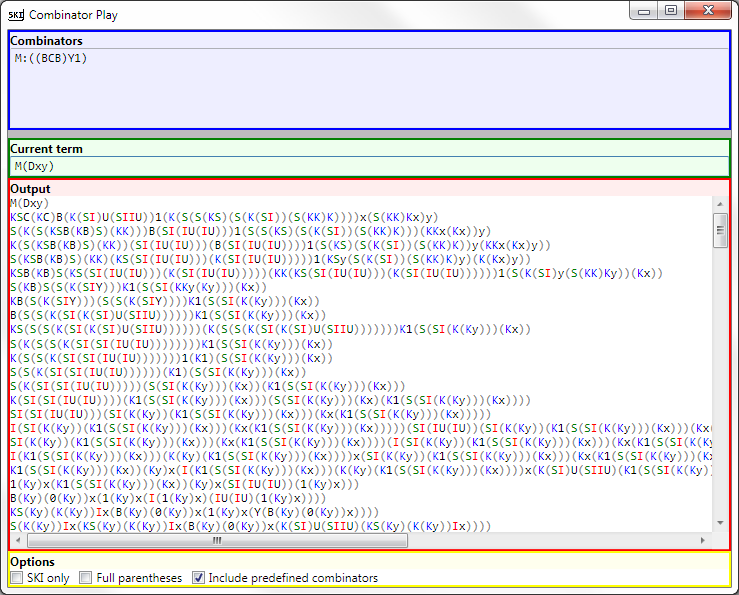
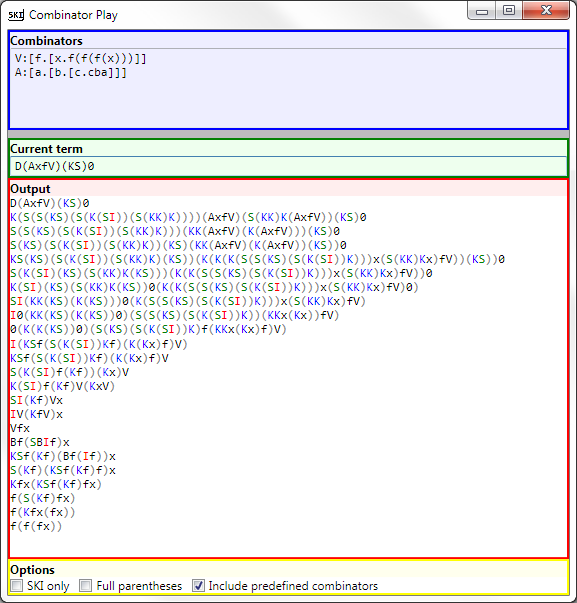
Added support for basic abstractions.
- Abstractions do a simple conversion of point form to SKI.
- This is not full lambda calculus support.  It doesn't do alpha conversions.
- Example: [x.[y.yx]] -> S(K(SI))K
- Cleaner handling of parentheses and square brackets when parsing.

Changed region(s): [[0.0, 0.0, 1.0, 0.9983]]

diff --git a/WPF_FrontEnd/MainWindow.xaml b/WPF_FrontEnd/MainWindow.xaml
@@ -2,13 +2,13 @@
         xmlns="http://schemas.microsoft.com/winfx/2006/xaml/presentation"
         xmlns:x="http://schemas.microsoft.com/winfx/2006/xaml"
         xmlns:ns="clr-namespace:WPF_FrontEnd"
-        Title="Combinator Play" Height="350" Width="525">
+        Title="Combinator Play" WindowStartupLocation="CenterScreen">
     <Grid>
         <Grid.RowDefinitions>
             <RowDefinition Height="100" MinHeight="50" />
             <RowDefinition Height="auto" />
             <RowDefinition Height="auto" />
-            <RowDefinition Height="*" />
+            <RowDefinition Height="*" MinHeight="50" />
             <RowDefinition Height="auto" />
         </Grid.RowDefinitions>
 
